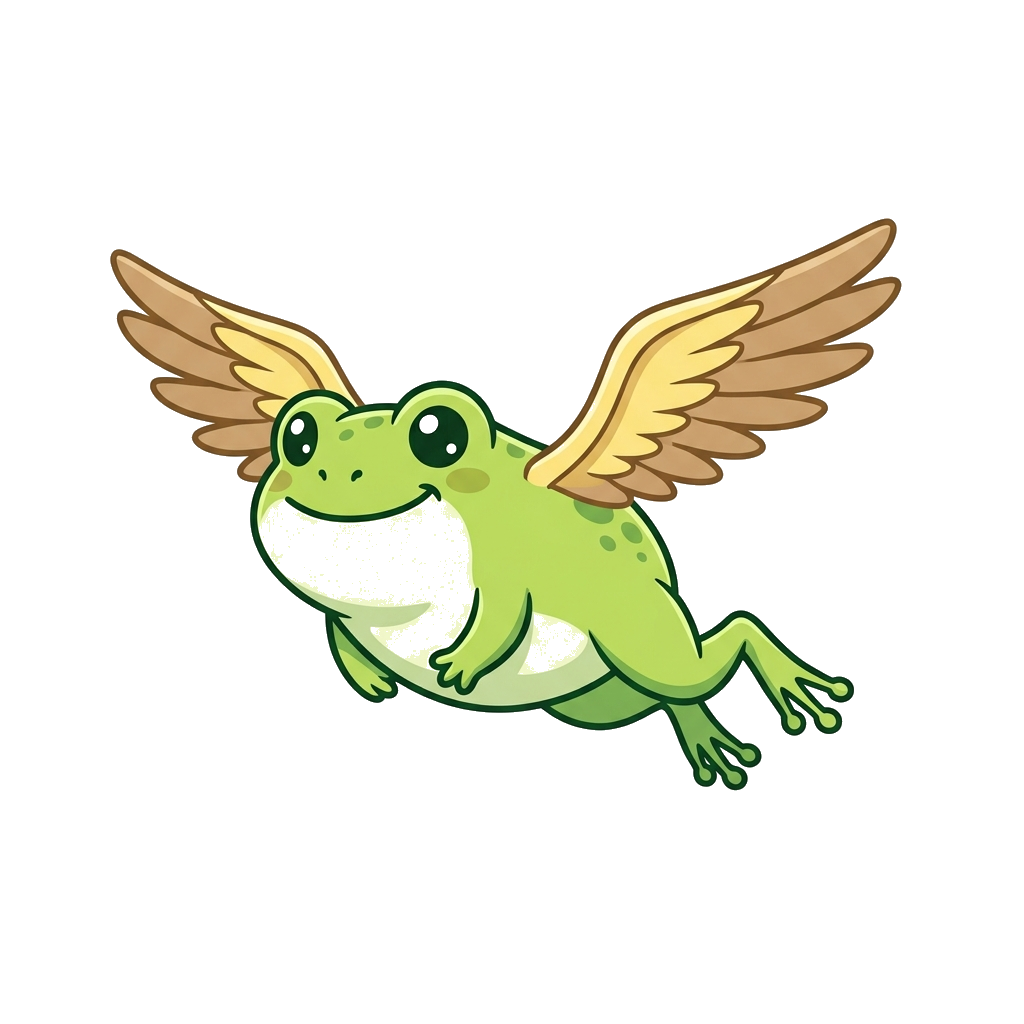
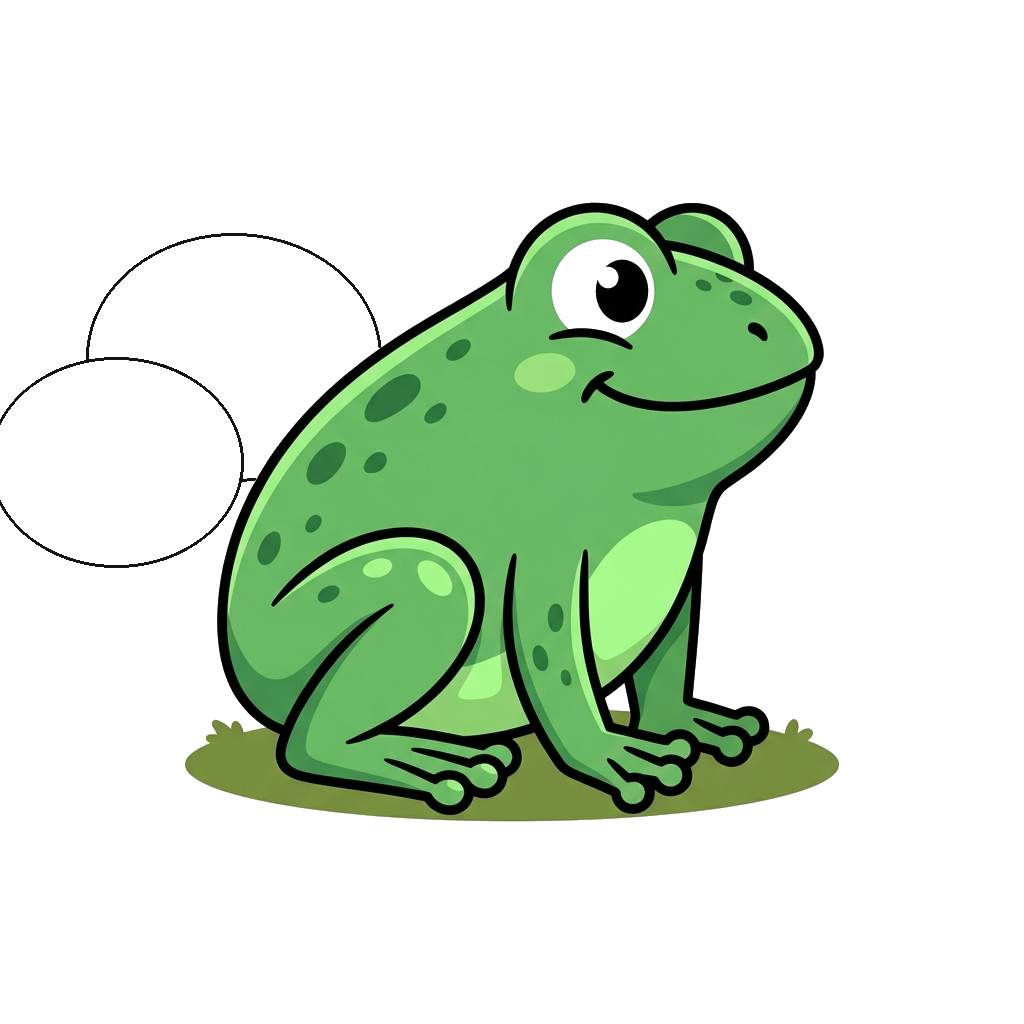
feat: implement BootScene for asset loading and add script for procedural wing generation

diff --git a/scenes/BootScene.js b/scenes/BootScene.js
@@ -5,10 +5,7 @@ class BootScene extends Phaser.Scene {
     }
 
     preload() {
-        // Character & Obstacle
-        this.load.image('frog', 'assets/frog.png');
         this.load.image('frog_idle_1', 'assets/frog_idle_1.png');
-        this.load.image('frog_idle_2', 'assets/frog_idle_2.png');
         this.load.image('frog_jump_1', 'assets/frog_jump_1.png');
         this.load.image('frog_jump_2', 'assets/frog_jump_2.png');
         this.load.image('frog_flying', 'assets/frog_flying.png');
@@ -39,8 +36,7 @@ class BootScene extends Phaser.Scene {
         this.anims.create({
             key: 'idle',
             frames: [
-                { key: 'frog_idle_1' },
-                { key: 'frog_idle_2' }
+                { key: 'frog_idle_1' }
             ],
             frameRate: 4,
             repeat: -1

diff --git a/add_wing.py b/add_wing.py
@@ -1,0 +1,38 @@
+from PIL import Image, ImageDraw
+
+def add_wings():
+    try:
+        frog = Image.open('assets/frog_idle_1.png').convert('RGBA')
+    except Exception as e:
+        print("Could not open frog image:", e)
+        return
+        
+    bbox = frog.getbbox()
+    if not bbox:
+        print("Empty image")
+        return
+        
+    left, upper, right, lower = bbox
+    width = right - left
+    height = lower - upper
+    
+    wing = Image.new('RGBA', frog.size, (255, 255, 255, 0))
+    draw = ImageDraw.Draw(wing)
+    
+    # Wing origin
+    wx = left + width * 0.15
+    wy = upper + height * 0.35
+    w_w = width * 0.3
+    w_h = height * 0.2
+    
+    # Draw two simple overlapping circles for a cute wing
+    draw.ellipse((wx - w_w, wy - w_h*1.5, wx + w_w*0.5, wy + w_h*0.5), fill=(255, 255, 255, 255), outline=(20, 20, 20, 255), width=3)
+    draw.ellipse((wx - w_w*1.5, wy - w_h*0.5, wx - w_w*0.2, wy + w_h*1.2), fill=(255, 255, 255, 255), outline=(20, 20, 20, 255), width=3)
+    
+    # Composite: Wing layer in background, frog on top
+    final = Image.alpha_composite(wing, frog)
+    
+    final.save('assets/frog_flying.png')
+    print("Saved frog_flying.png with programmatically generated wings!")
+
+add_wings()
